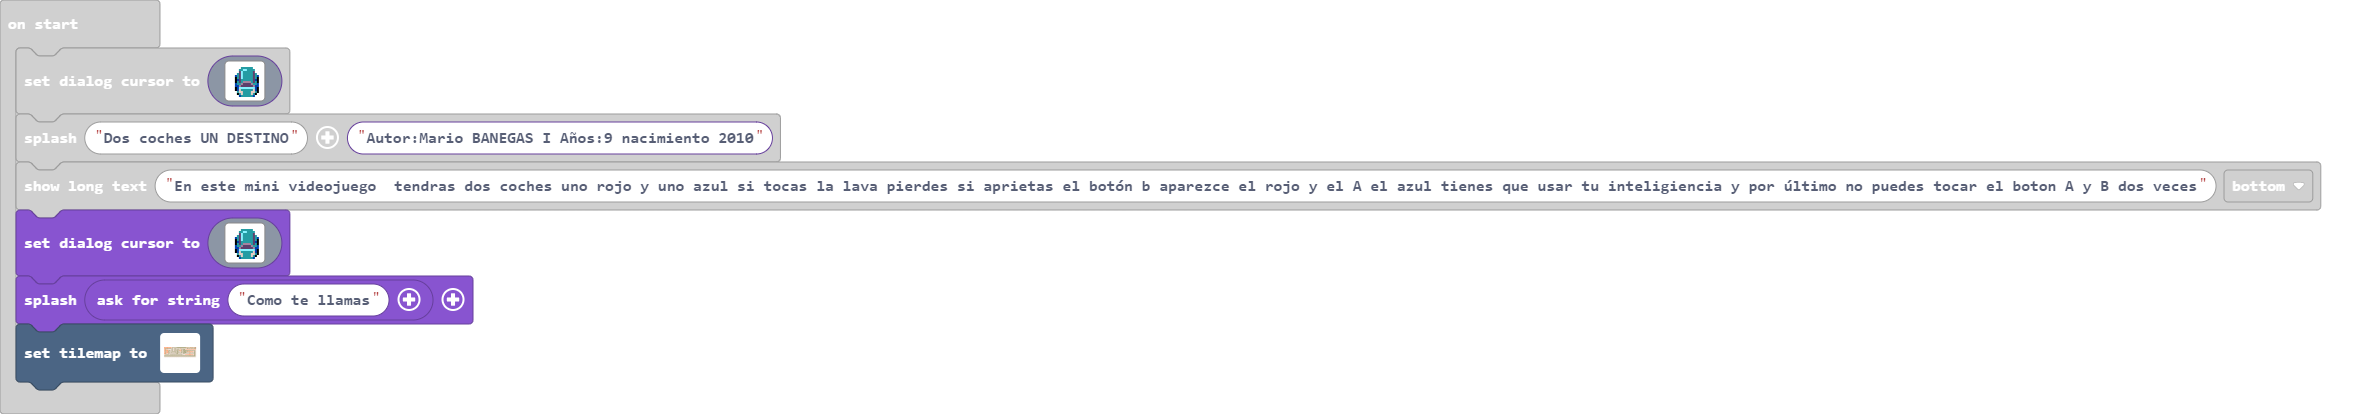
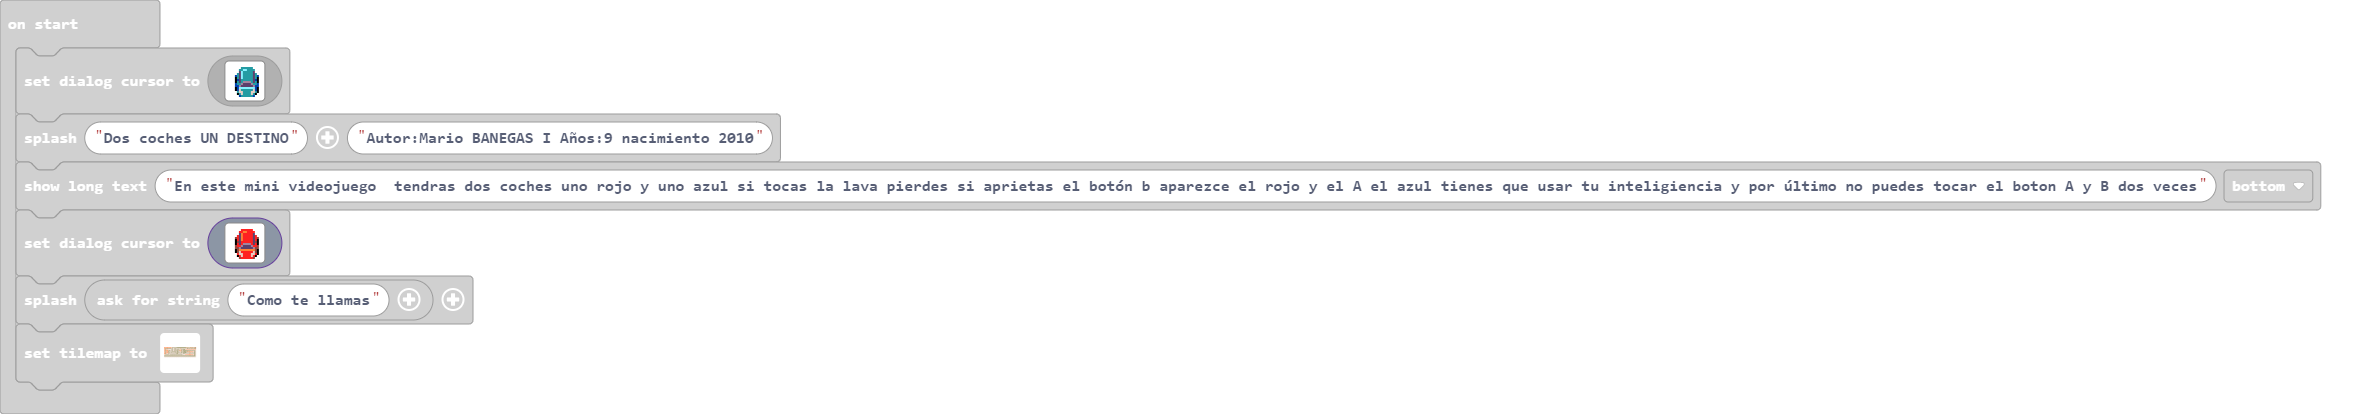
Update main.blocks, main.ts

diff --git a/main.ts b/main.ts
@@ -74,21 +74,21 @@ game.splash("Dos coches UN DESTINO", "Autor:Mario BANEGAS I Años:9 nacimiento 2
 game.showLongText("En este mini videojuego  tendras dos coches uno rojo y uno azul si tocas la lava pierdes si aprietas el botón b aparezce el rojo y el A el azul tienes que usar tu inteligiencia y por último no puedes tocar el boton A y B dos veces", DialogLayout.Bottom)
 game.setDialogCursor(img`
     . . . . . . . . . . . . . . . . 
-    . . . . . . 6 6 6 6 6 6 . . . . 
-    . . . . . 6 6 9 9 6 6 6 6 . . . 
-    . . . . . c 9 6 6 6 6 6 c . . . 
-    . . . . 6 c 9 6 6 6 6 6 c 6 . . 
-    . . . 8 6 c 9 6 6 6 6 6 c 6 8 . 
-    . . . f 6 c 9 6 6 6 6 6 c 6 f . 
-    . . . f 8 c 6 6 6 6 6 6 c 8 f . 
-    . . . f 6 c 6 b b b b 6 c 6 f . 
-    . . . 8 6 6 b c c c c b 6 6 8 . 
-    . . . 8 8 b c c c c c c b 8 8 . 
-    . . . f 8 9 9 9 9 9 9 9 9 8 f . 
-    . . . f 8 d 6 6 6 6 6 6 d 8 f . 
-    . . . . 6 d d 6 6 6 6 d d 6 f . 
-    . . . . f 6 d 6 6 6 6 d 6 f . . 
-    . . . . . 8 6 6 6 6 6 6 8 . . . 
+    . . . . . . 2 2 2 2 2 2 . . . . 
+    . . . . . 2 2 4 4 2 2 2 2 . . . 
+    . . . . . c 4 2 2 2 2 2 c . . . 
+    . . . . 2 c 4 2 2 2 2 2 c 2 . . 
+    . . . e 2 c 4 2 2 2 2 2 c 2 e . 
+    . . . f 2 c 4 2 2 2 2 2 c 2 f . 
+    . . . f e c 2 2 2 2 2 2 c e f . 
+    . . . f 2 c 2 b b b b 2 c 2 f . 
+    . . . e 2 2 b c c c c b 2 2 e . 
+    . . . e e b c c c c c c b e e . 
+    . . . f e 4 4 4 4 4 4 4 4 e f . 
+    . . . f e d 2 2 2 2 2 2 d e f . 
+    . . . . 2 d d 2 2 2 2 d d 2 f . 
+    . . . . f 2 d 2 2 2 2 d 2 f . . 
+    . . . . . e 2 2 2 2 2 2 e . . . 
     `)
 game.splash(game.askForString("Como te llamas"))
 tiles.setTilemap(tiles.createTilemap(hex`320010000202020202020202020202020301010101010101010101010101010101010101010102030302030303020203020303020302020203030202020302030203030103030303030301010101010101010101010101010101010101010101010101010101010402020101010101010101010103010303010101030303030303020303030303030303030301010303010303010301030103010203010303030303030303010301030301030103010101010302030101010101010302020202020202020202020202020202020201030202030303030301030103030103010301030301030203010303010101030303030303030303030303030303030302020102020203010101030103010303010301030101030102020201010301010101010101010101010101010101010101030203010302020201030103010301030301030103010103010302030101030101010101010101030302030303030303010103020201030202030103010301030101010103010301010301030203010103010101010103020202010202020202020301010302030103020202010301030103030303030301030101030103030301010301010101010303030303020303030303030101030202010202020301030103010101010101010103010103010101010101030101010101010101010101010101010101010103020201030303030103010303030303030303030101010303030303030303010103030303030303030203030303030301010302030101010101010301010101010101010101010101010101010101010303030302020202020202020202020202030101030303030303030303030303030303030303030303030303030303030303030303030303030303030302030303030303010103010101010101010101010101010101010101010101010101010101010101010101010101010101010101010101010101010301010101010101010101010101010101010101010101010101010101010101010101010101010101010101010101010101030303030303030303030303030303030303030303030303030303030303030303030303030303030303030303030303030303`, img`
